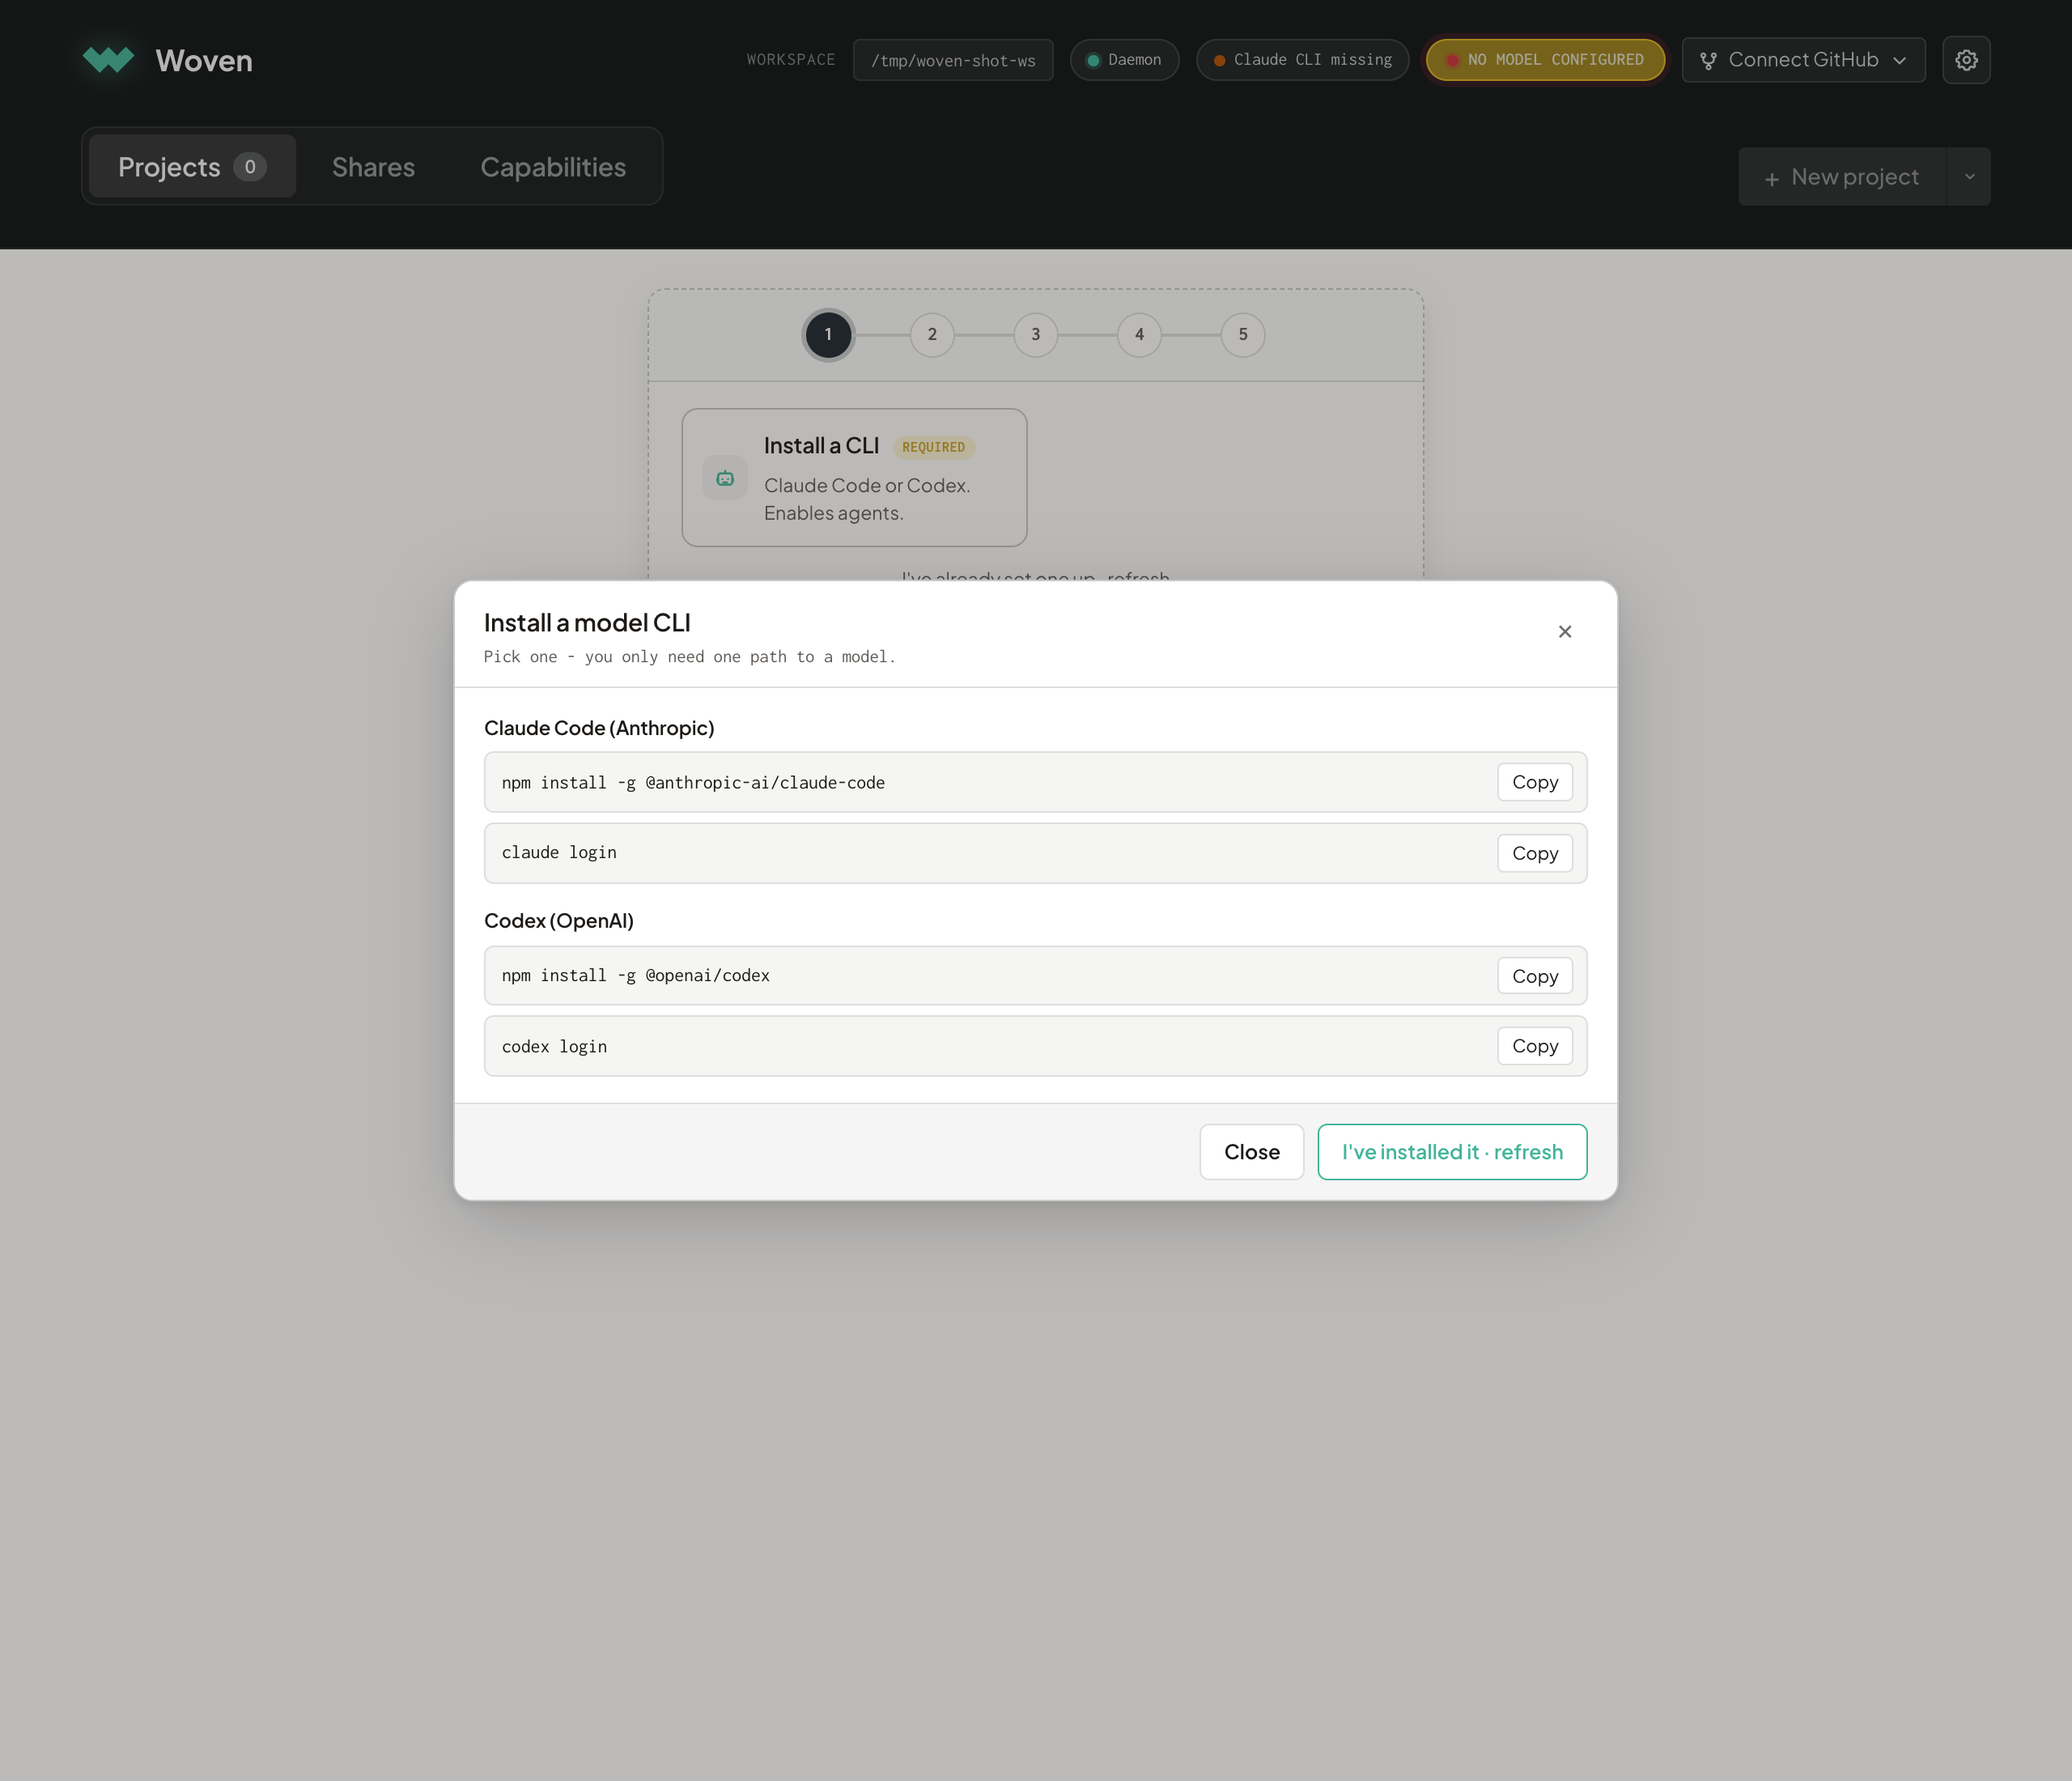
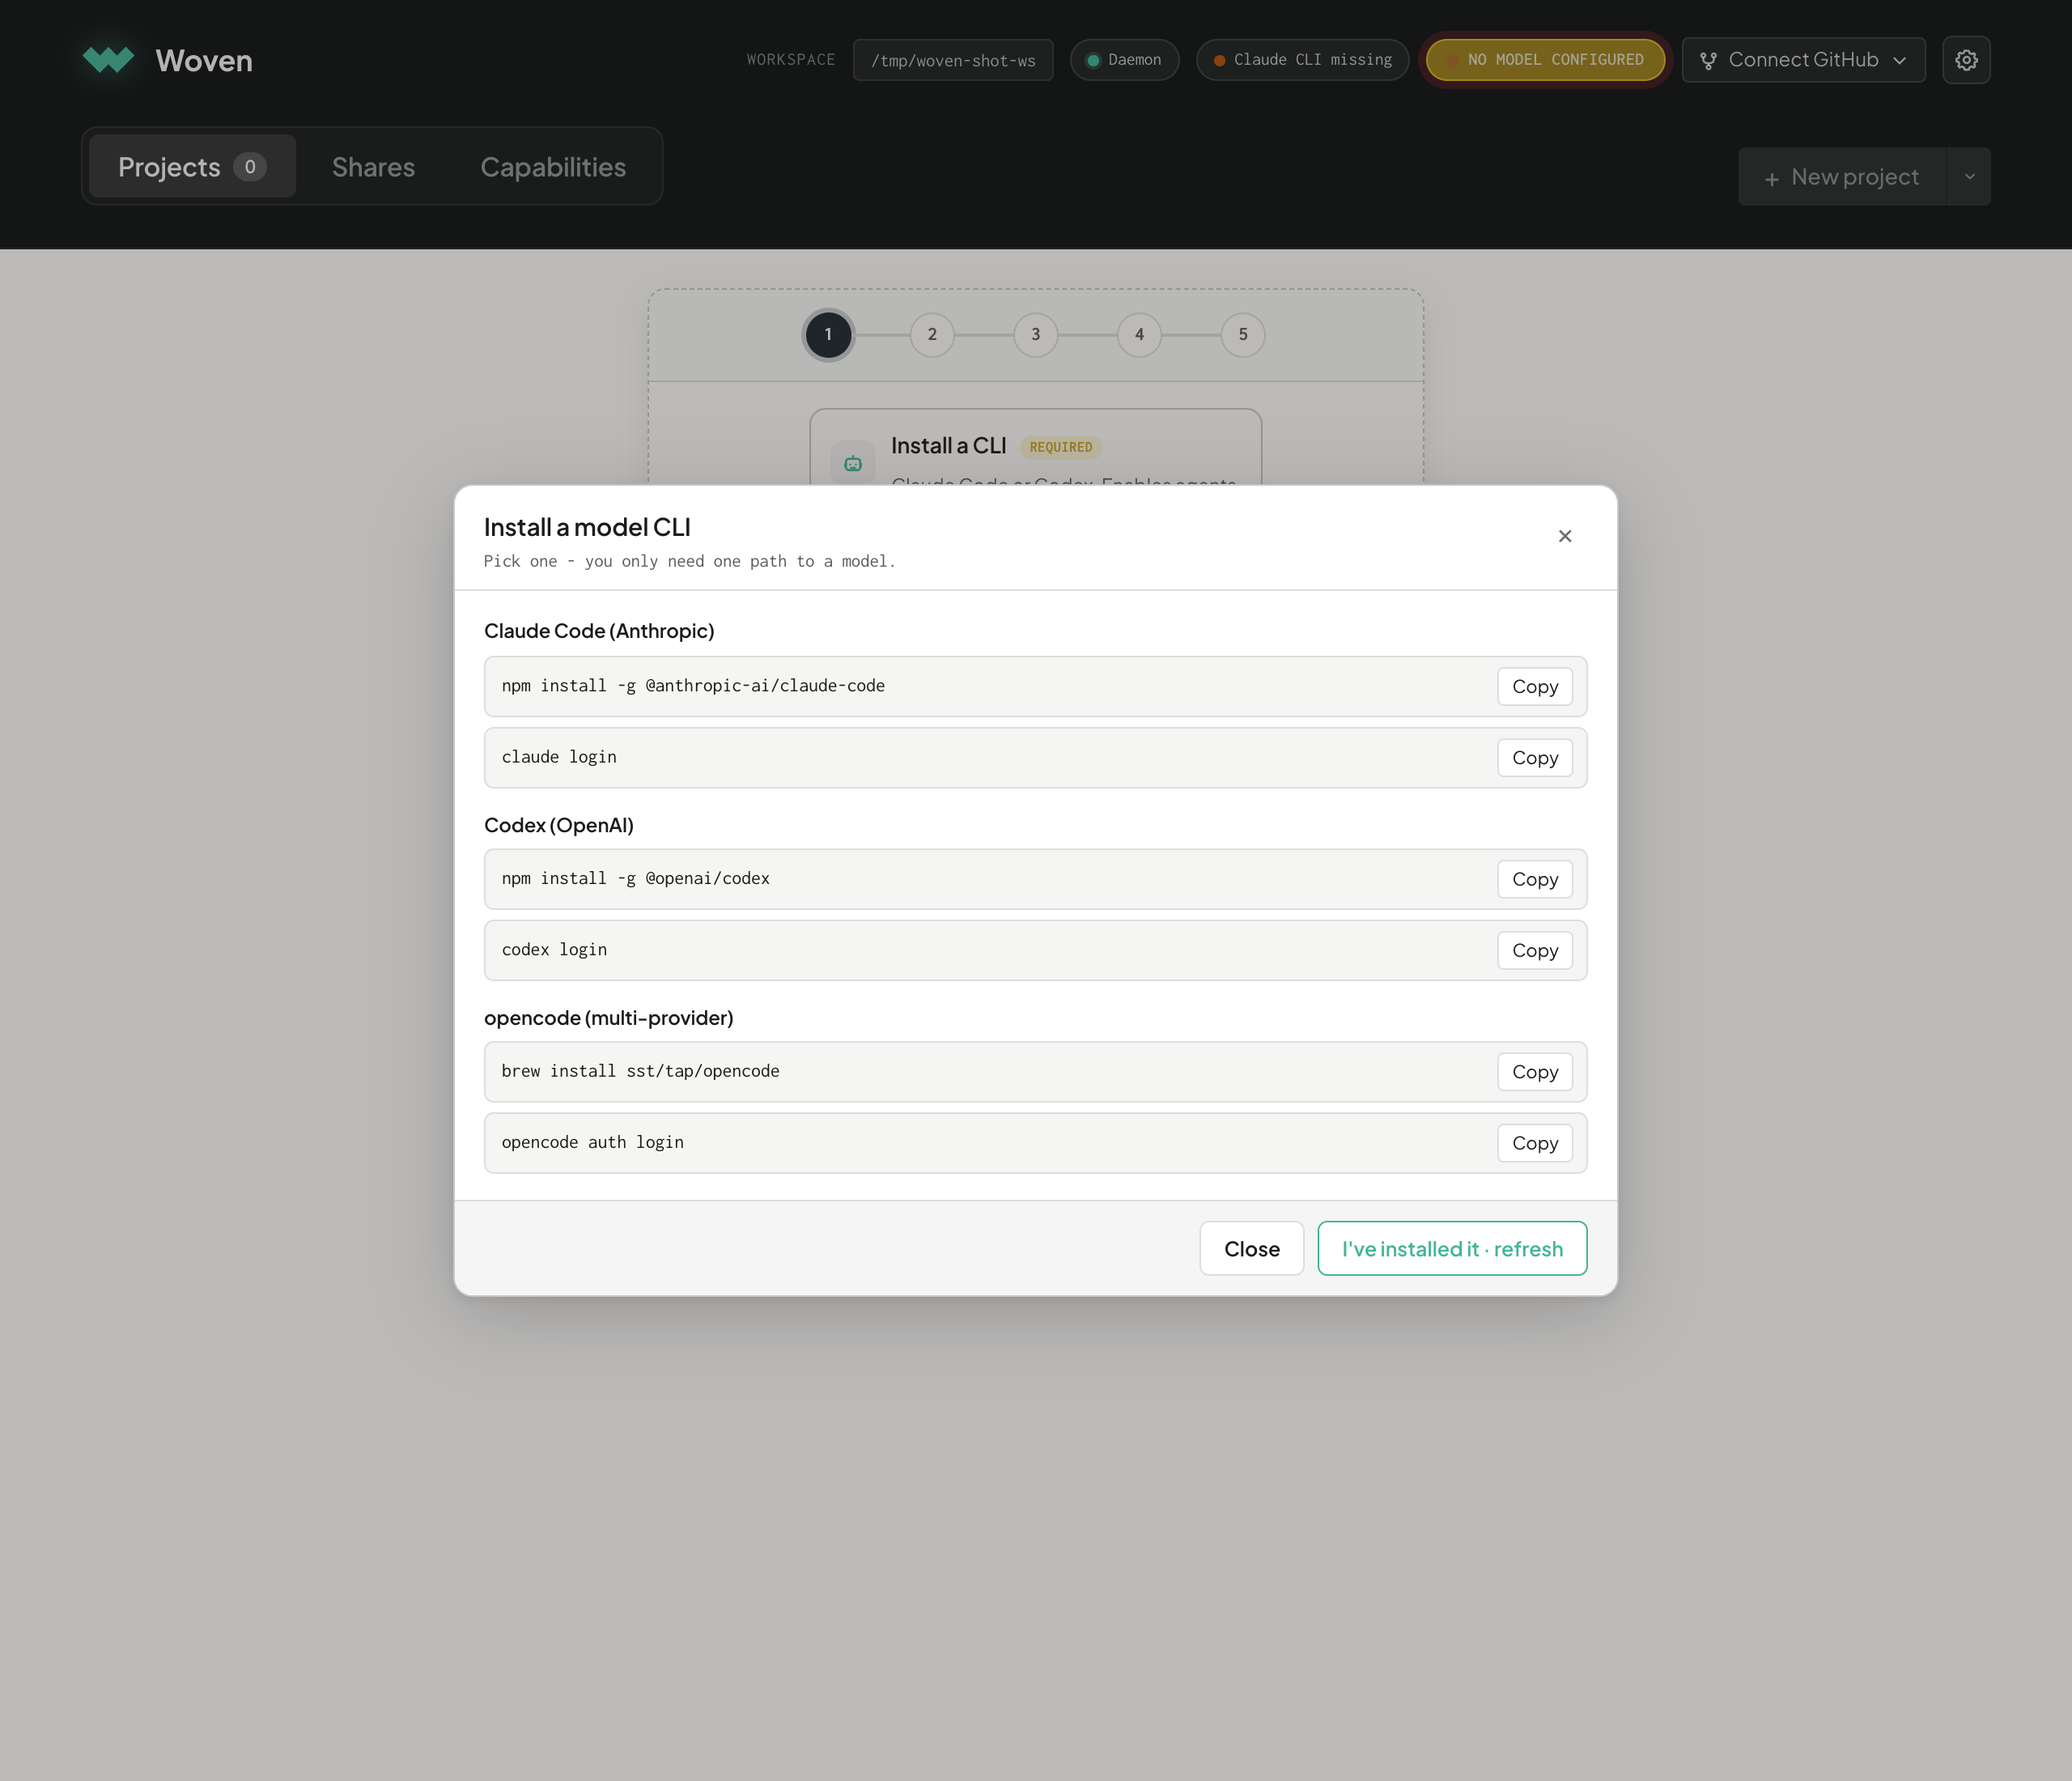
readme: document the opencode CLI as a third agent runtime
opencode (sst/opencode) is now a selectable terminal-agent backend alongside
Claude Code and Codex. Adds it to the requirements table, install/login steps,
Step 1, and troubleshooting, and recaptures the CLI-install popup (now 3 CLIs).

Changed region(s): [[0.2188, 0.2164, 0.7812, 0.7418]]

diff --git a/README.md b/README.md
@@ -10,7 +10,7 @@ Each kind of visual has its own pipeline. Raster portraits get generated and cut
 
 The output is real. Plain HTML, CSS, and JS in `source/`. Opens by double-clicking. Emails to a designer who's never heard of Woven.
 
-You bring the agent (Claude Code, Codex, or an API key). Woven is the canvas around it.
+You bring the agent (Claude Code, Codex, opencode, or an API key). Woven is the canvas around it.
 
 This README walks through your first run end-to-end, from install to the Ghibli-themed Totoro feeder app at the bottom, generated from one prompt.
 
@@ -40,7 +40,7 @@ There are **three things to launch the editor**, plus **four local skills** the 
 | ---------------- | --------------------------------------------------- | ---------------------------------------------------------------------------- | ------------------------------------- |
 | **Python**       | **3.9 or newer**                                    | The editor daemon (`serve.py` + sibling modules) is pure Python, stdlib only. 3.9 is the floor (it matches the system `python3` on a clean macOS); 3.11+ is fine and what most dev machines already have. | `python3 --version`                   |
 | **A modern browser** | Chrome / Edge / Safari / Firefox, last ~2 years | Renders the editor UI. The daemon serves it; the browser is just the front-end. | (no command, just open it)            |
-| **A model connection** | **one of:** Claude Code CLI · Codex CLI · an Anthropic / OpenAI API key | At least one way to reach a text model so the agent can run workflows. **A CLI is the required path for agentic workflows** (a pasted API key only powers single-shot "simple prompt" nodes). You'll wire this up in [Step 1](#5-step-1--connect-a-model). | `claude --version` / `codex --version` |
+| **A model connection** | **one of:** Claude Code CLI · Codex CLI · opencode CLI · an Anthropic / OpenAI API key | At least one way to reach a text model so the agent can run workflows. **A CLI is the required path for agentic workflows** (a pasted API key only powers single-shot "simple prompt" nodes). You'll wire this up in [Step 1](#5-step-1--connect-a-model). | `claude --version` / `codex --version` / `opencode --version` |
 
 The **editor itself** has no build step; it ships as static HTML + pure-Python files (stdlib only). But the four required local skills below bring their own tooling: two install via **Homebrew** and one via **npm**, so for a complete setup you also need **[Homebrew](https://brew.sh)** (macOS/Linux) and **[Node.js](https://nodejs.org)** on your machine.
 
@@ -87,12 +87,18 @@ cd Woven
 npm install -g @anthropic-ai/claude-code   # Claude Code
 # or
 npm install -g @openai/codex               # Codex
+# or
+brew install sst/tap/opencode              # opencode (multi-provider) - or: npm i -g opencode-ai
 
 # 3. Sign in once so the CLI has a session
-claude login    # (if you installed Claude Code)
+claude login         # (if you installed Claude Code)
 # or
-codex login     # (if you installed Codex)
+codex login          # (if you installed Codex)
+# or
+opencode auth login  # (if you installed opencode - then `opencode models` to pick a default)
 ```
+
+opencode is a multi-provider harness: it manages its own auth and default model, so after `opencode auth login` you connect any provider it supports (Anthropic, OpenAI, etc.) and Woven shells out to it for text-output runs.
 
 If you'd rather paste an API key instead of installing a CLI, skip the `npm install` step; you'll paste the key in the onboarding UI in [Step 1](#5-step-1--connect-a-model). Note that a key alone runs **simple prompt** nodes only - agentic workflows (node runs, chat, orchestrators) still need a CLI.
 
@@ -140,9 +146,9 @@ Step 1 wires up the model the agent runs on. There are two paths, and they are *
 
 ### 5a · Install a CLI (required for agents)
 
-A **Claude Code or Codex CLI on your `PATH` is the required backend.** The agent loop, file tools, and context compaction all live in the CLI harness, so node runs, chat, and orchestrators only work once a CLI is connected.
+A **Claude Code, Codex, or opencode CLI on your `PATH` is the required backend.** The agent loop, file tools, and context compaction all live in the CLI harness, so node runs, chat, and orchestrators only work once a CLI is connected.
 
-Click **Install a CLI** to open the **Install a model CLI** popup. It lists both supported binaries with copy-paste install + login commands:
+Click **Install a CLI** to open the **Install a model CLI** popup. It lists all three supported binaries (Claude Code, Codex, opencode) with copy-paste install + login commands:
 
 ![Onboarding · Step 1 · install-a-CLI popup](docs/screenshots/02-onboarding-cli-picker.png)
 
@@ -272,7 +278,7 @@ Bottom-tab navigation, the **Mori** wordmark, and the **Soft rain** weather chip
 | Symptom                                              | Fix                                                                                                    |
 | ---------------------------------------------------- | ------------------------------------------------------------------------------------------------------ |
 | Top-right pill stays red after pasting a key         | Click the **gear icon → Test** on that provider row in Settings to verify the key.                     |
-| **Claude CLI missing** chip is amber                 | `which claude`. If empty, run `npm install -g @anthropic-ai/claude-code` then `claude login`. (Shows **Codex CLI missing** if Codex is your preferred CLI.) |
+| **Claude CLI missing** chip is amber                 | `which claude`. If empty, run `npm install -g @anthropic-ai/claude-code` then `claude login`. (Shows **Codex CLI missing** or **opencode CLI missing** if that's your preferred CLI, install via `npm install -g @openai/codex` / `brew install sst/tap/opencode` then its login command.) |
 | **Daemon down** chip is red                          | The Python server crashed or was stopped. Re-run `python3 editor/serve.py` from the repo root.         |
 | Port 5731 already in use                             | Set a different port: `EDITOR_PORT=5740 python3 editor/serve.py`.                                      |
 | Image / video / SVG nodes fail with "no API key"     | Open **Settings (gear)** and add the relevant provider key (see [Step 2](#6-step-2--add-asset-provider-keys-image--video--svg)). |
